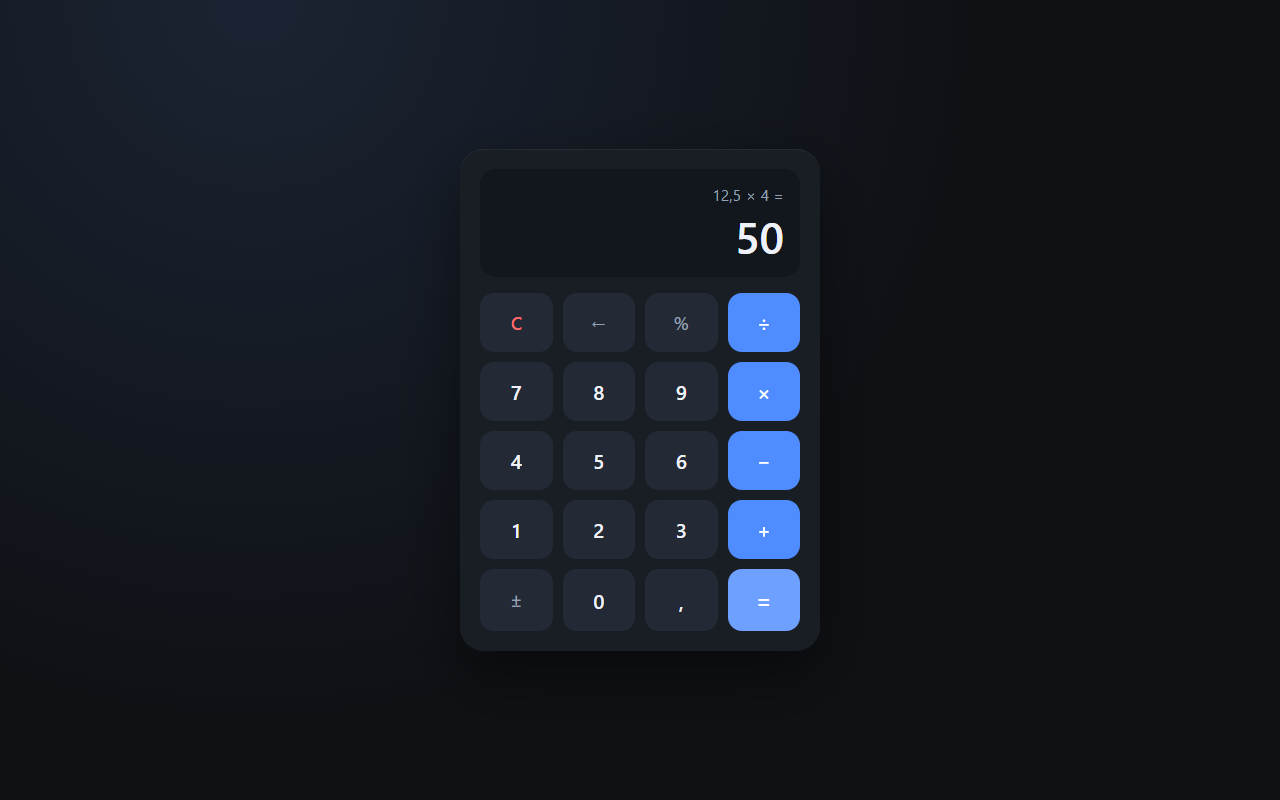
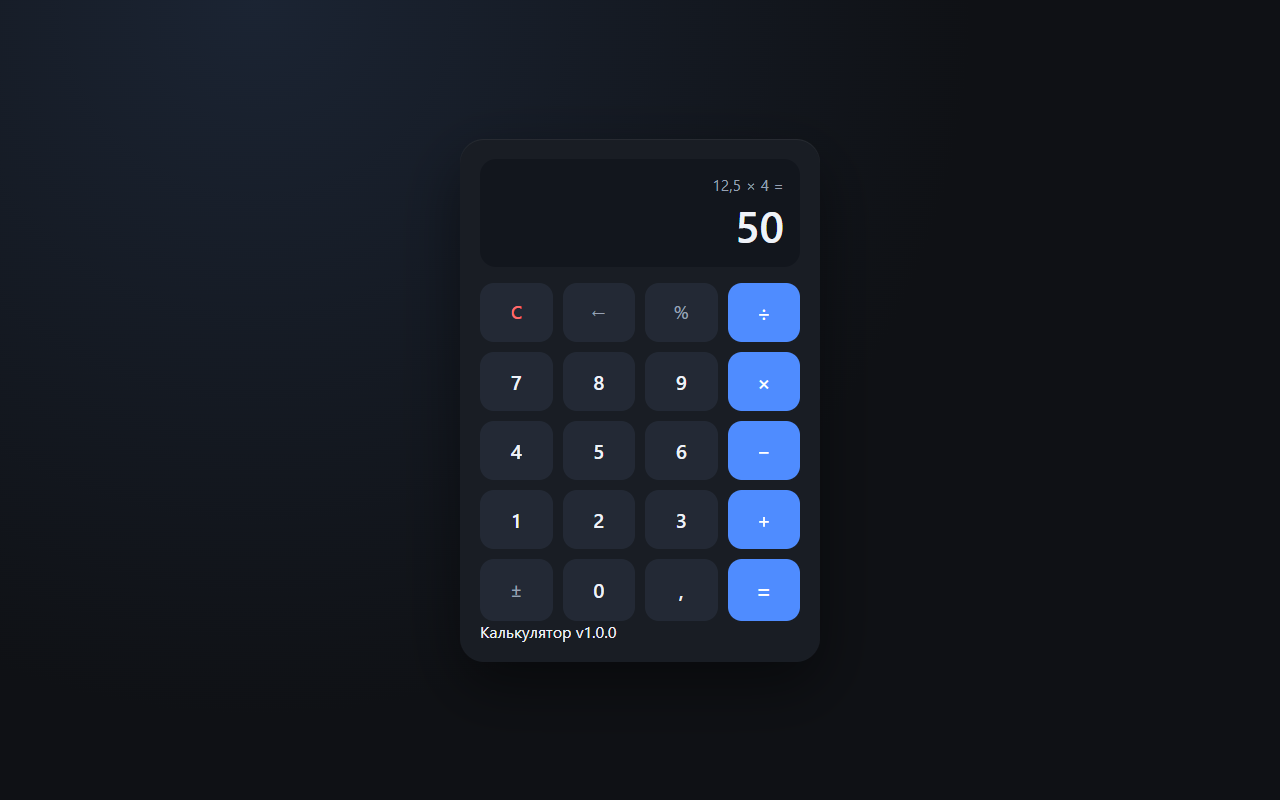
feat(calculator): add about-line footer with two-layer checks

diff --git a/tests/ui/calculator.spec.js b/tests/ui/calculator.spec.js
@@ -14,6 +14,8 @@ test("calculator: arithmetic, errors and keyboard stay green", async ({ page }) 
   await page.goto("/calculator.html");
   await expect(page).toHaveTitle("Калькулятор");
   await expect(display).toHaveText("0");
+  const about = page.getByTestId("about-line");
+  await expect(about).toBeVisible();
 
   // Дроби и округление: 9 ÷ 4 = 2,25
   await key("9");

diff --git a/calculator.html b/calculator.html
@@ -175,6 +175,8 @@
         <button type="button" data-action="decimal" aria-label="Десятичная точка">,</button>
         <button type="button" class="key-equals" data-action="equals" aria-label="Равно">=</button>
       </div>
+
+      <footer class="about" data-testid="about-line" data-version="1.0.0">Калькулятор v1.0.0</footer>
     </main>
 
     <script>

diff --git a/tests/structure.test.js b/tests/structure.test.js
@@ -45,6 +45,11 @@ describe("calculator page", () => {
     expect(html).not.toMatch(/<script[^>]+src=/);
     expect(html).not.toMatch(/<link[^>]+stylesheet/);
   });
+
+  it("renders the about-line footer", () => {
+    expect(html).toContain('data-testid="about-line"');
+    expect(html.match(/<footer\b/g)).toHaveLength(1);
+  });
 });
 
 describe("agent skills", () => {
